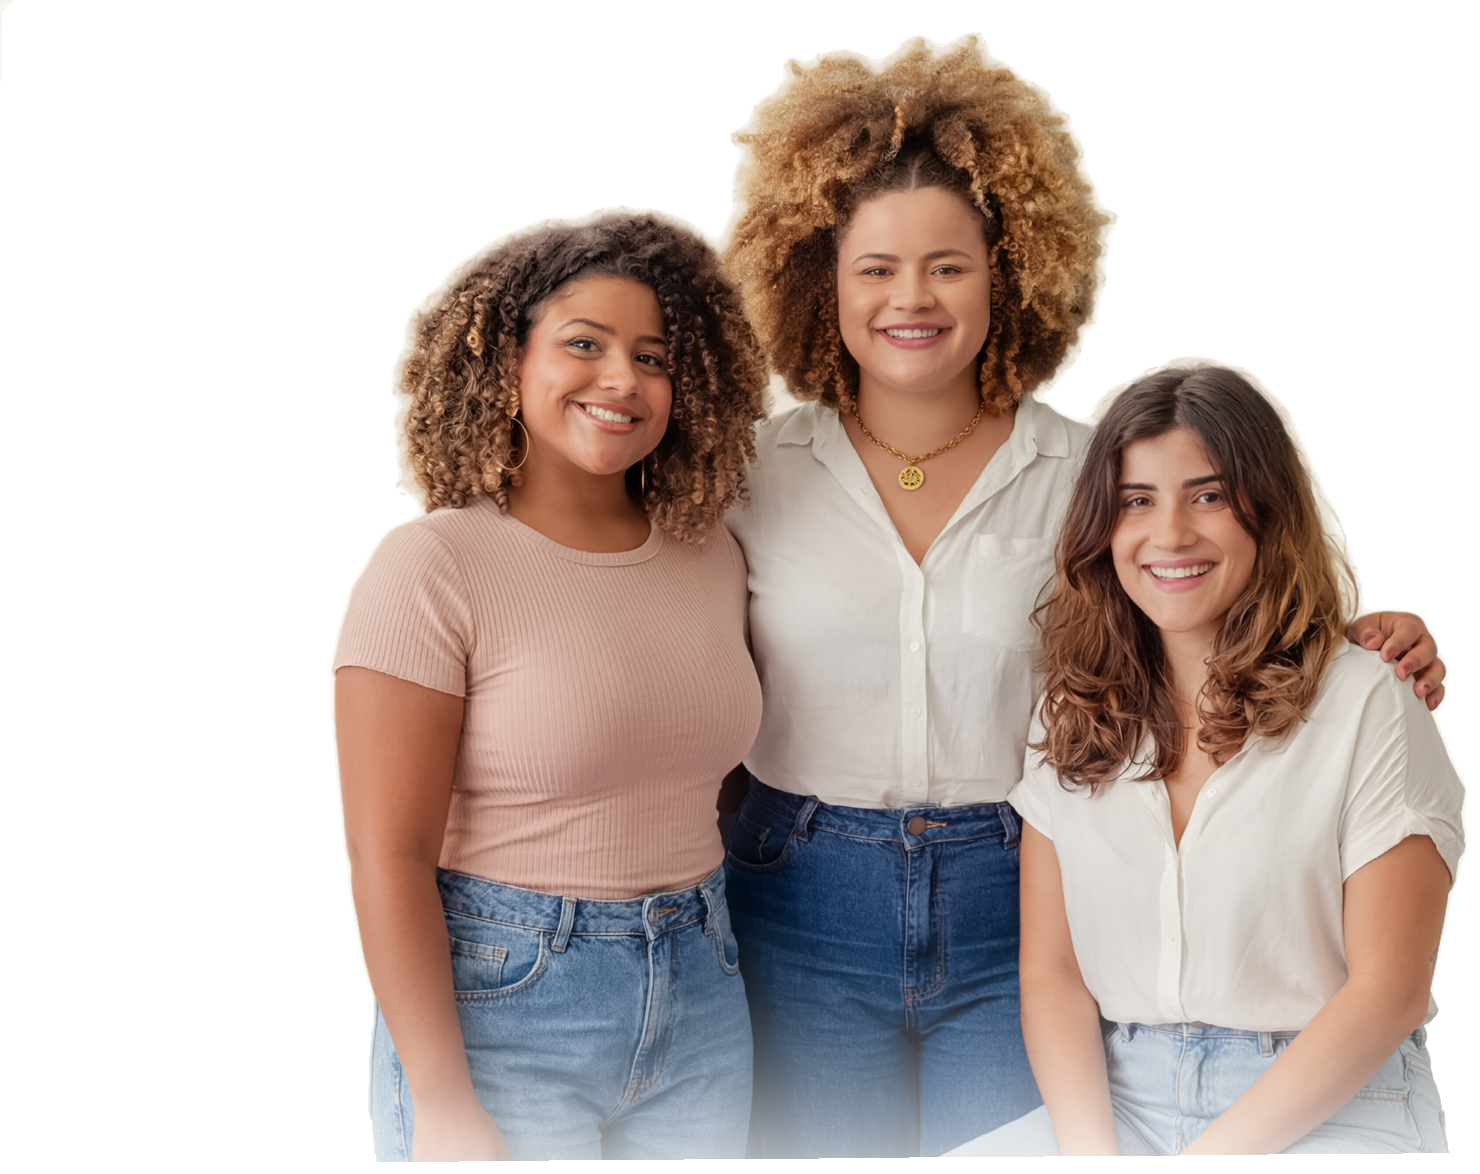
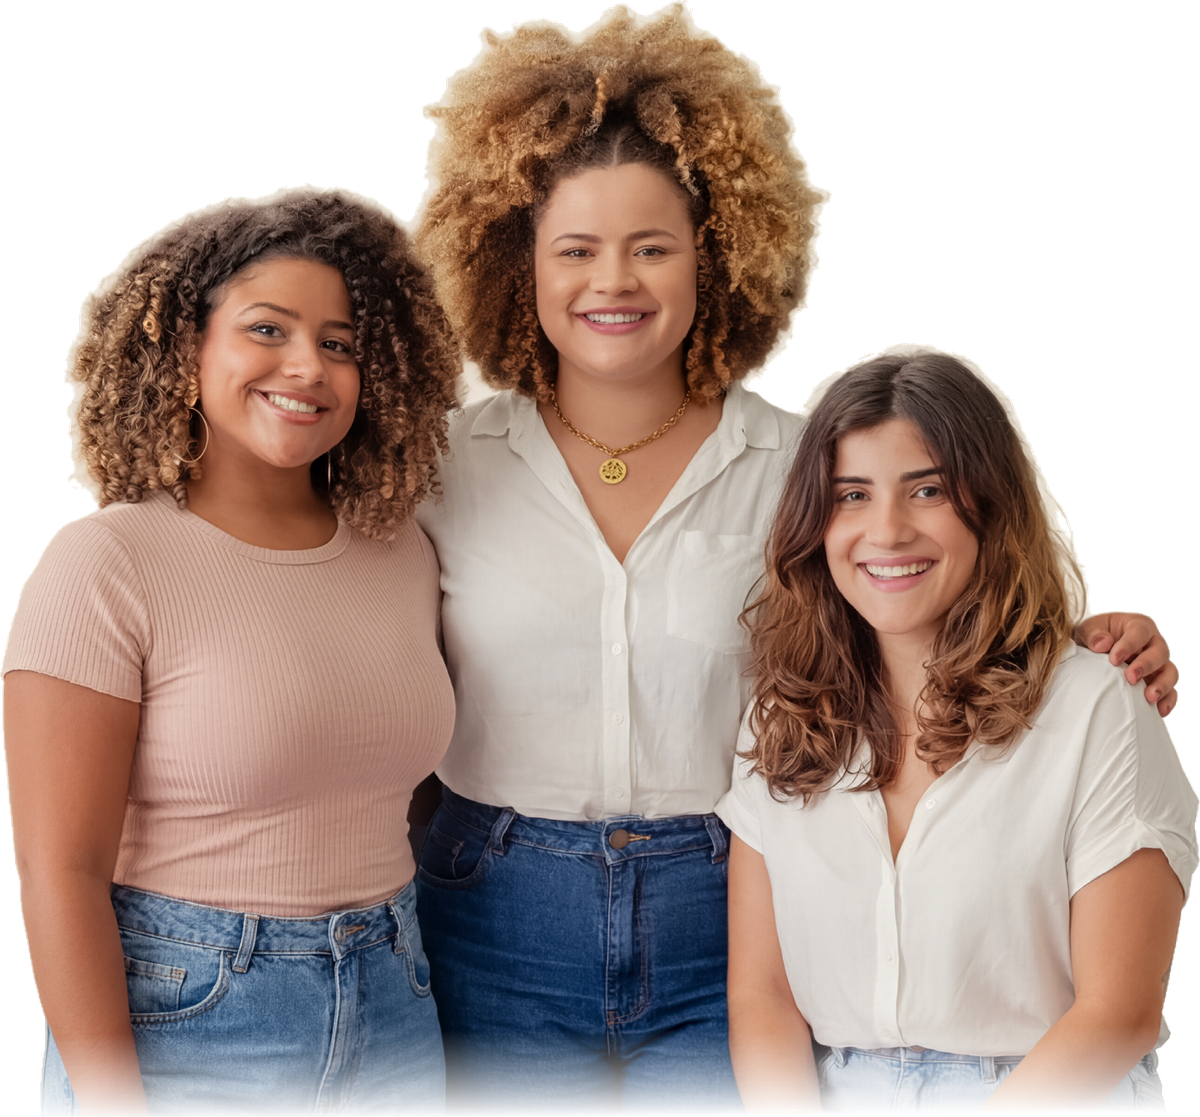
Fundo cacho escuro (sway scrub) + recede mobile; recorte das socias limpo

diff --git a/index.html b/index.html
@@ -11,7 +11,7 @@
 <link rel="preconnect" href="https://fonts.googleapis.com" />
 <link rel="preconnect" href="https://fonts.gstatic.com" crossorigin />
 <link href="https://fonts.googleapis.com/css2?family=Fraunces:ital,opsz,wght@0,9..144,300..600;1,9..144,400..600&family=Jost:wght@300..500&display=swap" rel="stylesheet" />
-<link rel="stylesheet" href="css/styles.css?v=11" />
+<link rel="stylesheet" href="css/styles.css?v=12" />
 </head>
 <body>
 
@@ -20,7 +20,7 @@
 
 <!-- cacho-mola: fundo fixo, scrub no scroll -->
 <div class="curl-stage" aria-hidden="true">
-  <img src="assets/spring/f_001.jpg" alt="" class="curl-fallback" data-curl-fallback />
+  <img src="assets/curl-dark/f_001.jpg" alt="" class="curl-fallback" data-curl-fallback />
   <canvas class="curl-canvas" data-curl-canvas></canvas>
 </div>
 
@@ -70,8 +70,8 @@
     </div>
     <figure class="community__photo" data-rise>
       <picture>
-        <source srcset="assets/rainhas-cut.webp?v=7" type="image/webp" />
-        <img src="assets/rainhas-cut.png?v=7" alt="As três irmãs sócias do Palácio das Cacheadas" loading="lazy" />
+        <source srcset="assets/rainhas-cut.webp?v=8" type="image/webp" />
+        <img src="assets/rainhas-cut.png?v=8" alt="As três irmãs sócias do Palácio das Cacheadas" loading="lazy" />
       </picture>
       <figcaption class="community__cap"><strong>As três irmãs</strong> que fundaram o Palácio das Cacheadas — da mesma raiz, a missão de revelar o poder de cada cacho.<span class="community__names">Sócias &amp; fundadoras</span></figcaption>
     </figure>
@@ -218,6 +218,6 @@
 
 </main>
 
-<script src="js/app.js?v=10"></script>
+<script src="js/app.js?v=11"></script>
 </body>
 </html>

diff --git a/js/app.js b/js/app.js
@@ -25,6 +25,7 @@
       const ty = (t.top + t.height / 2 - window.innerHeight / 2) * e;
       brand.style.transform = `translate(-50%,-50%) translate(${tx}px,${ty}px) scale(${scale})`;
       header.style.setProperty('--navop', e.toFixed(3));
+      document.documentElement.style.setProperty('--introp', e.toFixed(3)); // mobile: cacho desliza/some no scroll
       header.classList.toggle('scrolled', p > 0.9);
       brand.classList.toggle('docked', p > 0.98);
     };
@@ -46,8 +47,8 @@
   document.querySelectorAll('[data-rise]').forEach(el => io.observe(el));
   document.querySelectorAll('.hero [data-rise]').forEach((el, i) => setTimeout(() => el.classList.add('in'), 120 + i * 90));
 
-  /* ---- cacho-mola: scrub; tipo de cacho SORTEADO por sessão/refresh ---- */
-  const CURLSETS = ['spring', 'spring2'];
+  /* ---- cacho-mola: scrub do cacho escuro definido (sway) ---- */
+  const CURLSETS = ['curl-dark'];
   const cset = CURLSETS[Math.floor(Math.random() * CURLSETS.length)];
   const curlFb = document.querySelector('[data-curl-fallback]');
   if (curlFb) curlFb.src = `assets/${cset}/f_001.jpg`;